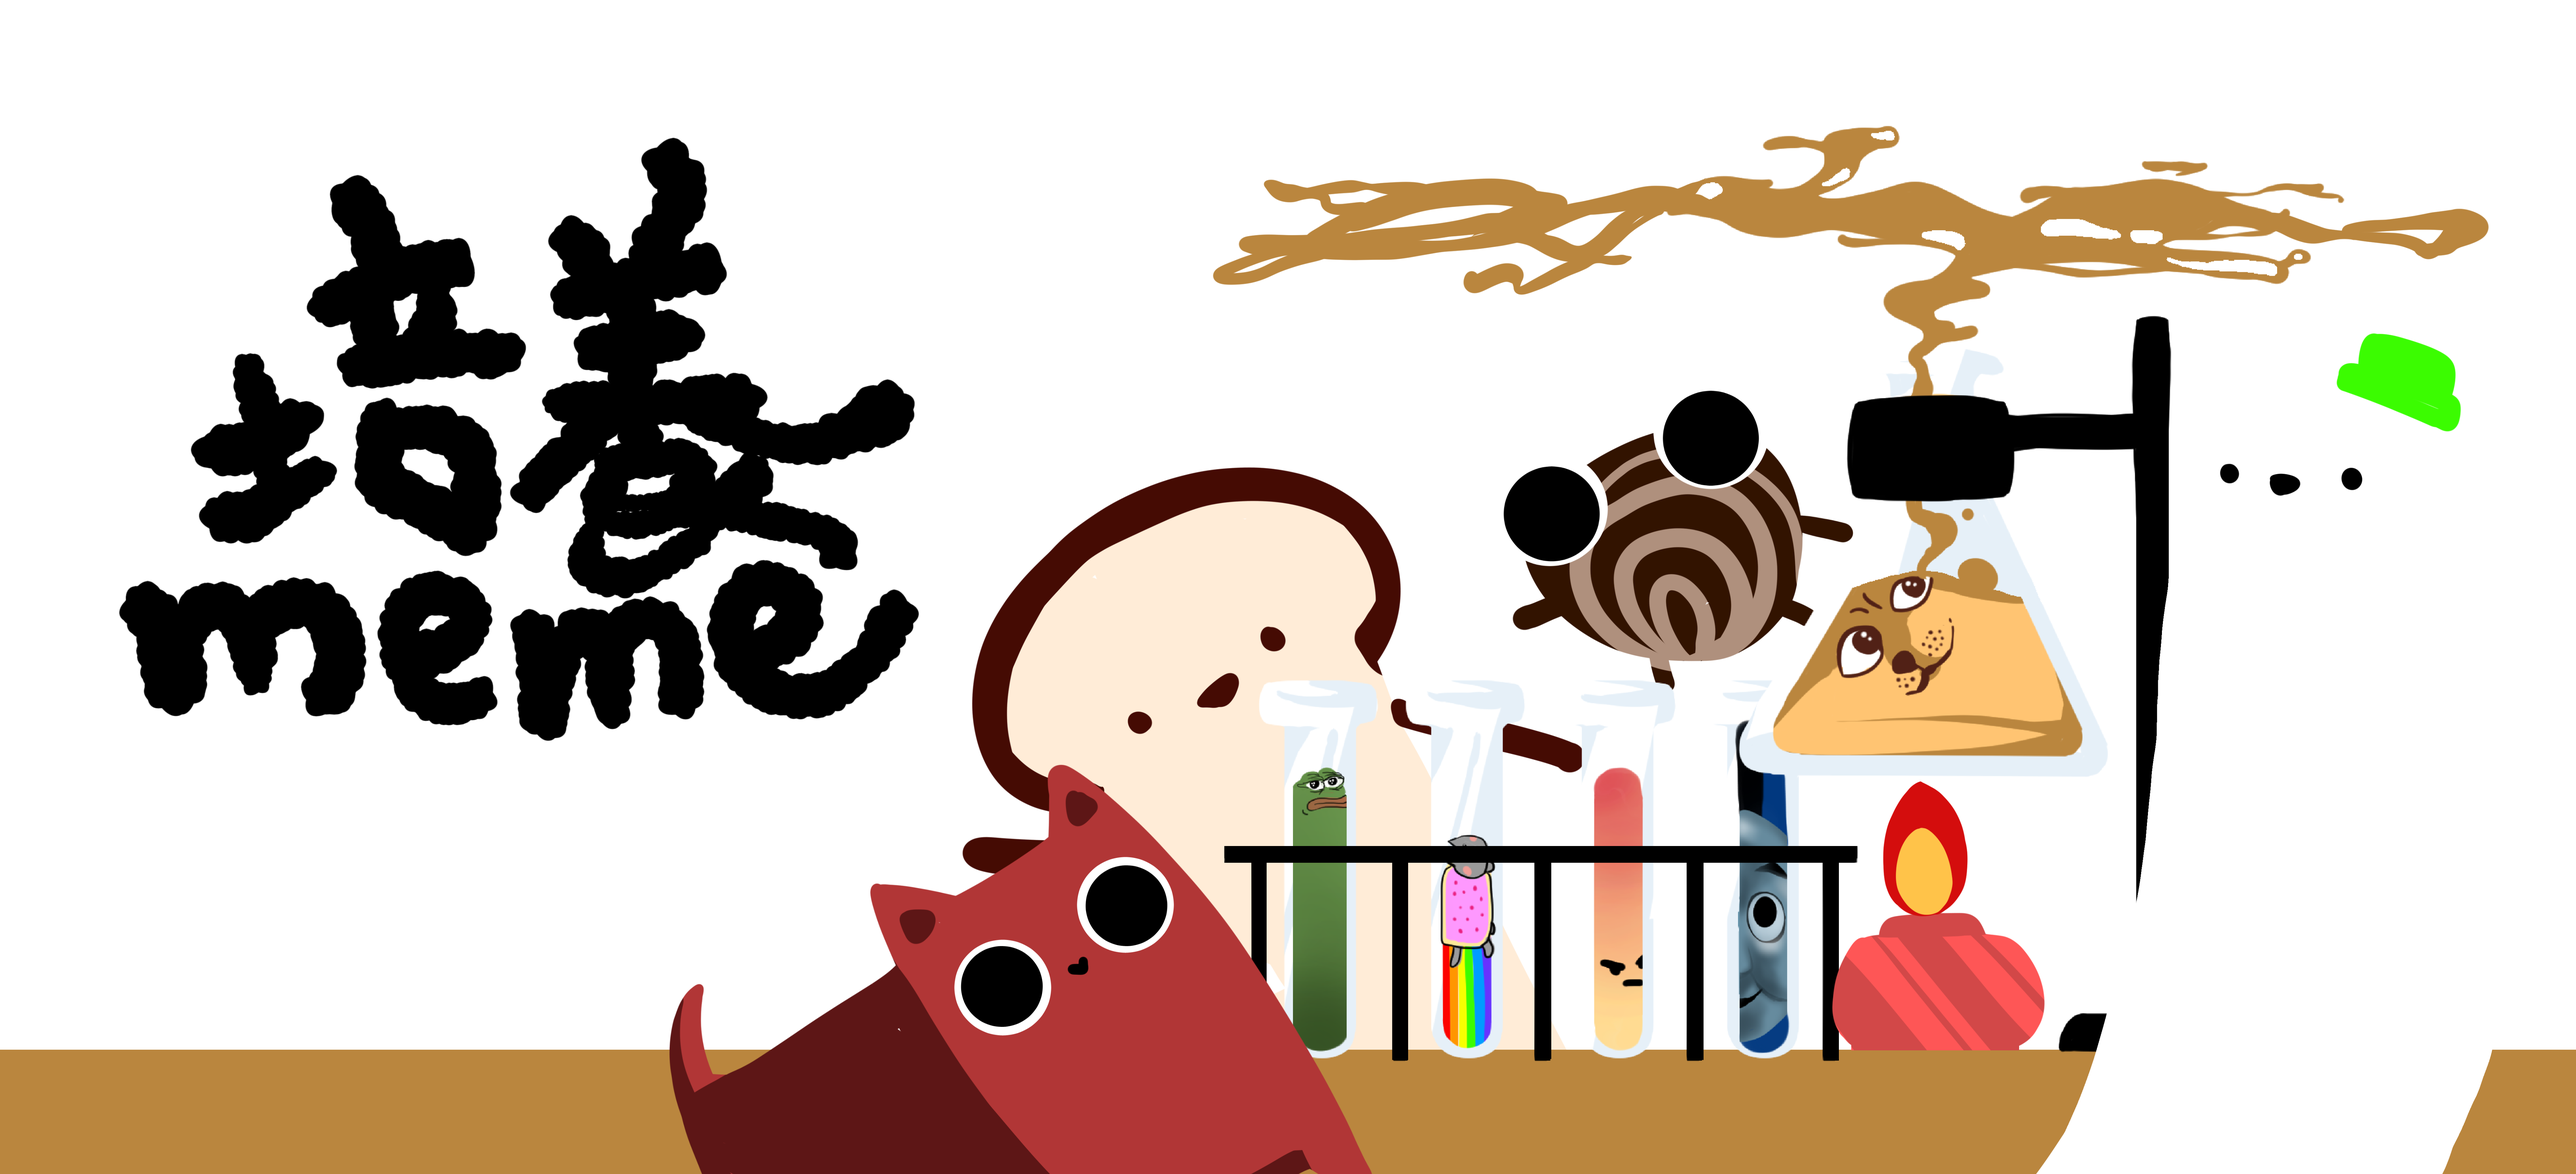
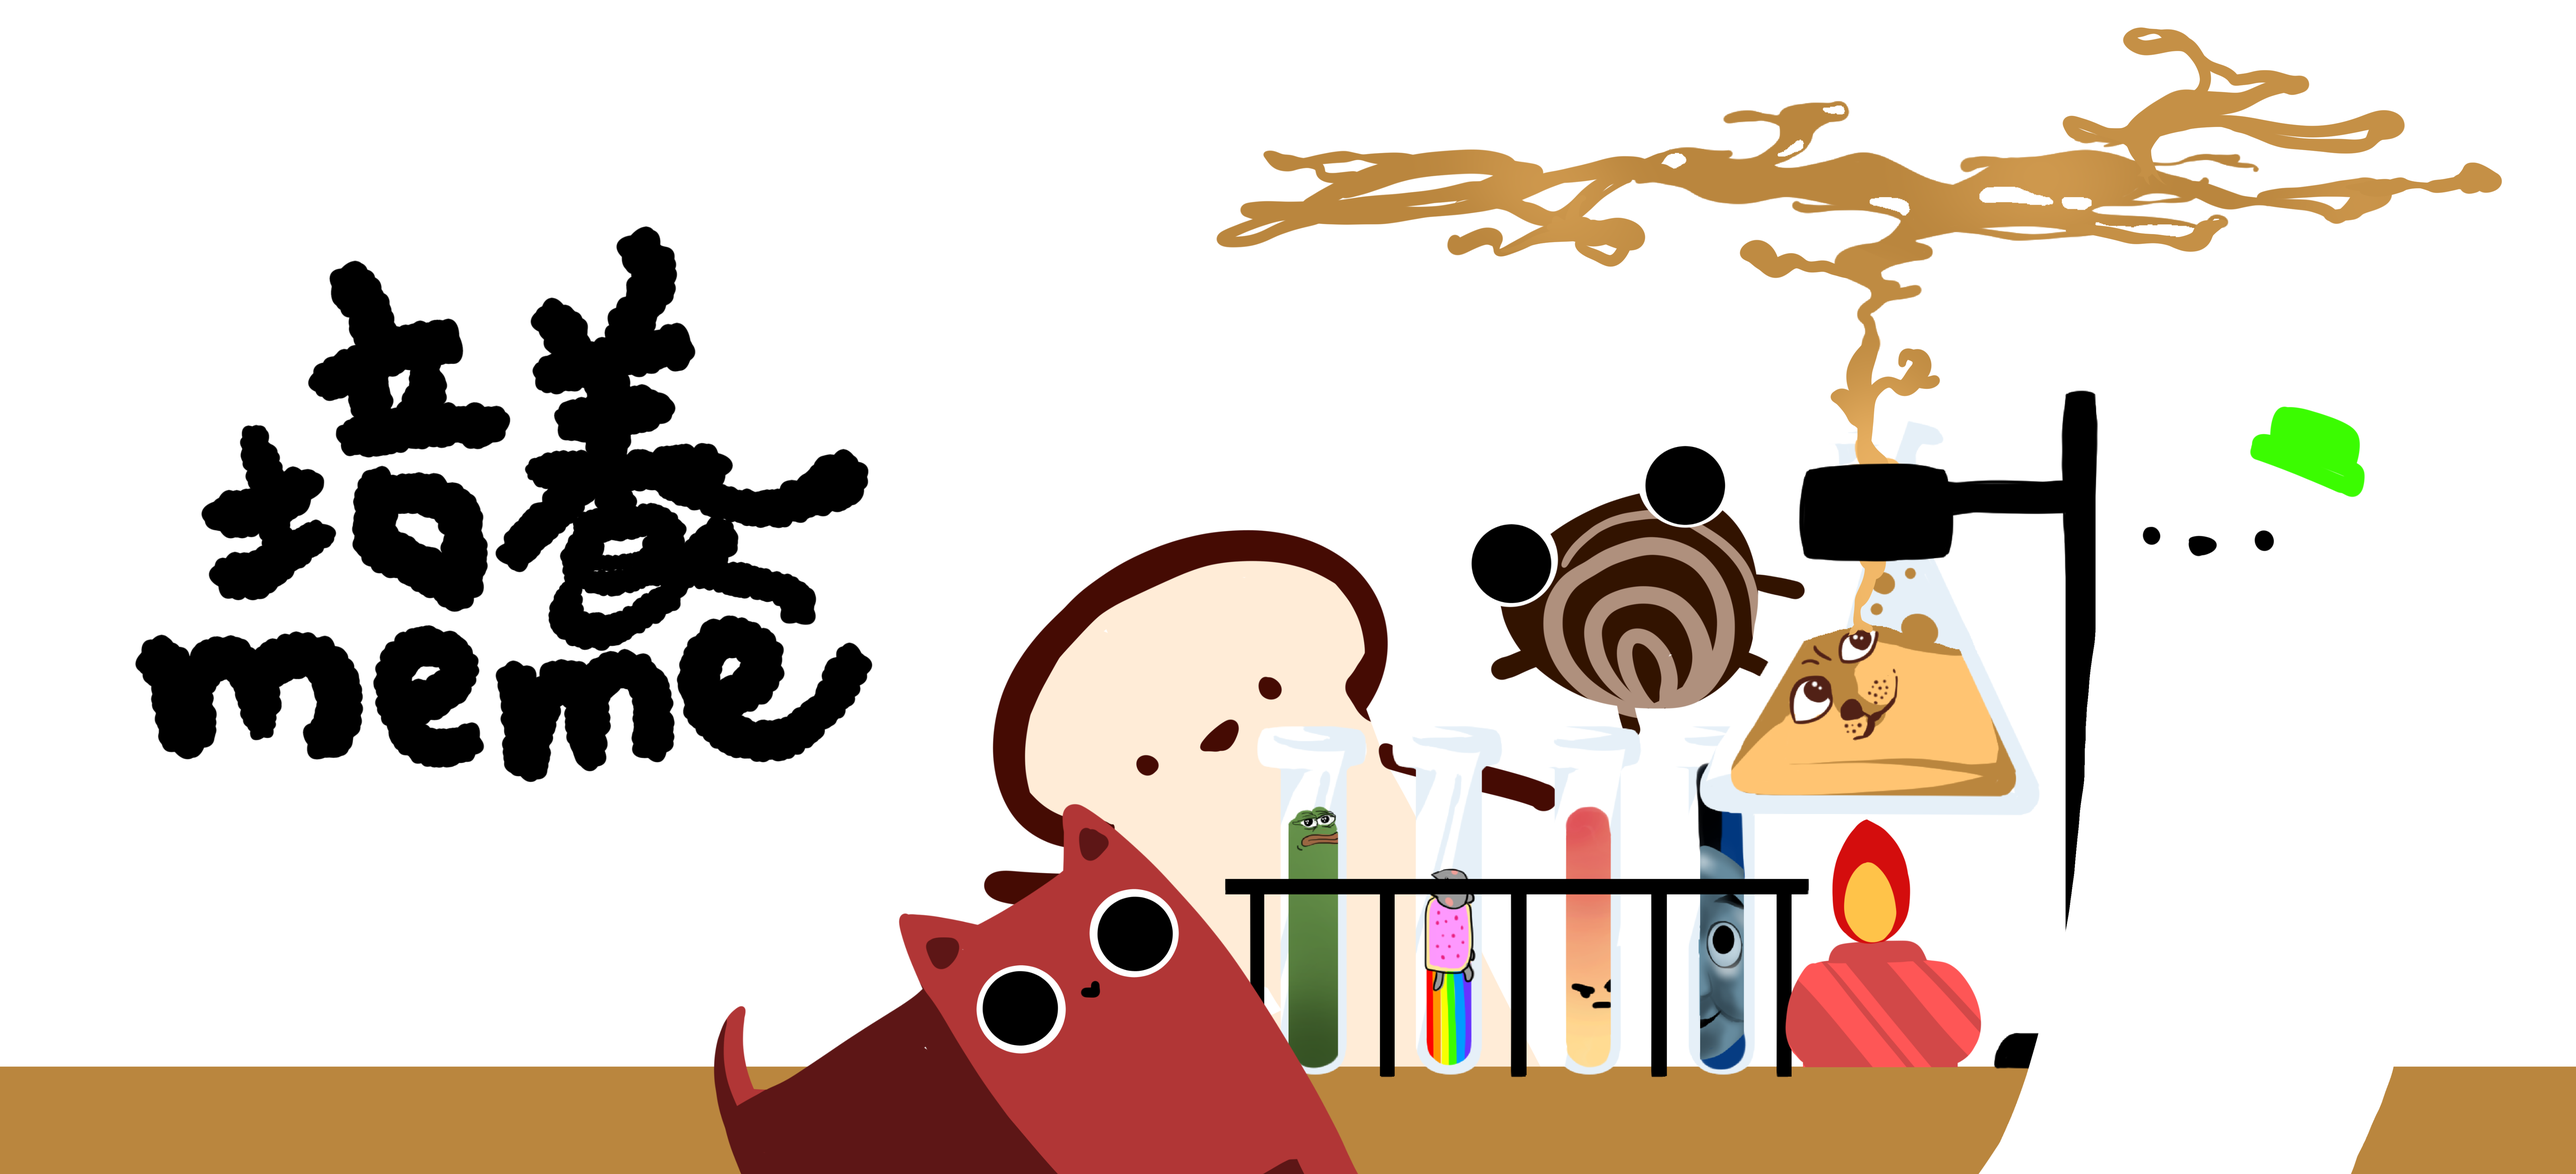
homepic

Changed region(s): [[0.0, 0.0, 0.9679, 1.0], [0.9054, 0.8692, 1.0, 1.0], [0.8742, 0.2794, 0.9679, 0.4346]]

diff --git a/index.html b/index.html
@@ -24,13 +24,13 @@
         </button>    
         <div id="menu">
         <ul>
-            <li id="a1"><a href="#s1"></a>Home</li>
-            <li id="a2"><a href="#s2"></a>Works</li>
-            <li id="a3"><a href="#s3"></a>About</li>
-            <li id="a4"><a href="#s4"></a>Character</li>
-            <li id="a5"><a href="#s5"></a>Links</li>
-            <li id="a6"><a href="#s6"></a>FAQ</li>
-            <li id="a7"><a href="#s7"></a>Contact</li>
+            <a href="#s1"><li id="a1"></li></a>
+            <a href="#s2"><li id="a2"></li></a>
+            <a href="#s3"><li id="a3"></li></a>
+            <a href="#s4"><li id="a4"></li></a>
+            <a href="#s5"><li id="a5"></li></a>
+            <a href="#s6"><li id="a6"></li></a>
+            <a href="#s7"><li id="a7"></li></a>
         </ul>    
         </div>
     </div>      
@@ -45,11 +45,11 @@
         <div class="home">
             <p>為了讓迷因更加偉大。</br>
             To make memes great again and again.</p>
-            <img src="img/home (1).png" alt="home">
+            <img src="img/home_new.png" alt="home">
         </div>
-        <div class="wraparrow">
+        <!-- <div class="wraparrow">
             <div class="downarrow"></div>
-        </div>
+        </div> -->
     </div>
     <div class="content" id="s2">
         <div class="title"><img src="img/title/WORKS.png" alt="Works"></div>
@@ -57,16 +57,19 @@
             <div id="memebtn"><a href="meme.html"><img src="img/btn_memes.png" alt="Memes"></div></a>
             <div id="projectbtn"><a href="project.html"><img src="img/btn_project.png" alt="Projects"></div></a>
         </div>
-        <div class="wraparrow2">
+        <!-- <div class="wraparrow2">
             <div class="downarrow"></div>
-        </div>
+        </div> -->
     </div>
     <div class="content" id="s3">
         <article>
             <div class="about col-6 col-m-6"><img src="img/aquarium.png" alt="lab"></div>
             <div class="about col-6 col-m-6">
                 <div class="title"><img src="img/title/ABOUT.png" alt="About"></div>
-                <p>這裡是由ㄇ團隊架設的meme主題網站，<br>產製meme科普文還有一些相關的東東。</p>
+                <p>這裡是由ㄇ團隊架設的meme主題網站，</br>產製meme科普文還有一些相關的東東。</p>
+                <p>ㄇ是由三個喜歡看meme的normie組成，</br>
+                秉持著快樂的心想要推廣迷因文化，</br>
+                希望世界可以透過meme找到一些知識和歡笑。</p>
             </div>
         </article>
     </div>
@@ -170,7 +173,7 @@
         <article>
             <div class="about col-6 col-m-6"><img src="img/Links.png" alt="lab"></div>
             <div class="about col-6 col-m-6">
-                <div class="title"><img src="img/title/LINKS.png" alt="About"></div>
+                <div class="title"><img src="img/title/CONTACT.png" alt="About"></div>
                 <p>可以在這裡跟我們說說話，<br>有相關問題、合作邀約、任何建議也歡迎留言。</p>
             </div>
         </article>

diff --git a/css/nav.css b/css/nav.css
@@ -152,18 +152,87 @@ header::after {
 	text-align: center;
 }
 
+#a1{
+	background: url(../img/title/btn_home.png) no-repeat;
+}
+
+#a1:hover{
+	background: url(../img/title/btn_home_h.png) no-repeat;
+	background-size: 80%;
+	background-position: 18px,35px;
+}
+
+#a2{
+	background: url(../img/title/btn_works.png) no-repeat;
+}
+
+#a2:hover{
+	background: url(../img/title/btn_works_h.png) no-repeat;
+	background-size: 80%;
+	background-position: 18px,35px;
+}
+
+#a3{
+	background: url(../img/title/btn_about.png) no-repeat;
+}
+
+#a3:hover{
+	background: url(../img/title/btn_about_h.png) no-repeat;
+	background-size: 80%;
+	background-position: 18px,35px;
+}
+
+#a4{
+	background: url(../img/title/btn_character.png) no-repeat;
+}
+
+#a4:hover{
+	background: url(../img/title/btn_character_h.png) no-repeat;
+	background-size: 80%;
+	background-position: 18px,35px;
+}
+
+#a5{
+	background: url(../img/title/btn_links.png) no-repeat;
+}
+
+#a5:hover{
+	background: url(../img/title/btn_links_h.png) no-repeat;
+	background-size: 80%;
+	background-position: 18px,35px;
+}
+
+#a6{
+	background: url(../img/title/btn_faq.png) no-repeat;
+}
+
+#a6:hover{
+	background: url(../img/title/btn_faq_h.png) no-repeat;
+	background-size: 80%;
+	background-position: 18px,35px;
+}
+
+#a7{
+	background: url(../img/title/btn_contact.png) no-repeat;
+}
+
+#a7:hover{
+	background: url(../img/title/btn_contact_h.png) no-repeat;
+	background-size: 80%;
+	background-position: 18px,35px;
+}
+
 #menu li{	
 	margin: 40px;
 	padding: 0;
 	width: 150px;
-	height: 150px;
-	color: #fff;
-	line-height: 150px;
-	font-size: 24px;	
+	height: 150px;	
 	display: inline-block;
 	box-sizing: border-box;
 	border-radius: 50%;
 	text-align: center;
+	background-size: 80%;
+	background-position: 18px,35px;
 
 	-ms-transform:scale(1,1);	/* IE 9*/
 	-webkit-transform: scale(1,1);	/*Safari*/
@@ -186,6 +255,11 @@ header::after {
 	transform: scale(1.2,1.2);	/*Standard syntax*/
 }
 
-.ch_bg{
-	box-shadow: 2px 2px 8px #BE4040;
+footer{
+	padding: 10px;
+	text-align: center;
+	font-size: 10pt;
+	color: #fff;
+	background: #fe5656;
+	font-weight: 300;
 }

diff --git a/css/home.css b/css/home.css
@@ -71,7 +71,8 @@ article,.home{
 
 .home p{
 	position: absolute;
-	top: 30%;
+	top: 75%;
+	left:10%;
 	font-size: 12pt;
 }
 
@@ -233,22 +234,9 @@ h3{
 /*for tablets*/
 @media only screen and (min-width: 768px) {
 
-	.work{
-		width: 80%;
-	}
 }
 
 /*for desktop*/
 @media only screen and (min-width: 1200px) {
 
-	.home p{
-		position: absolute;
-		left: 50%;
-		top: 30%;
-		font-size: 12pt;
-	}
-
-	.work{
-		width: 80%;
-	}
 }
